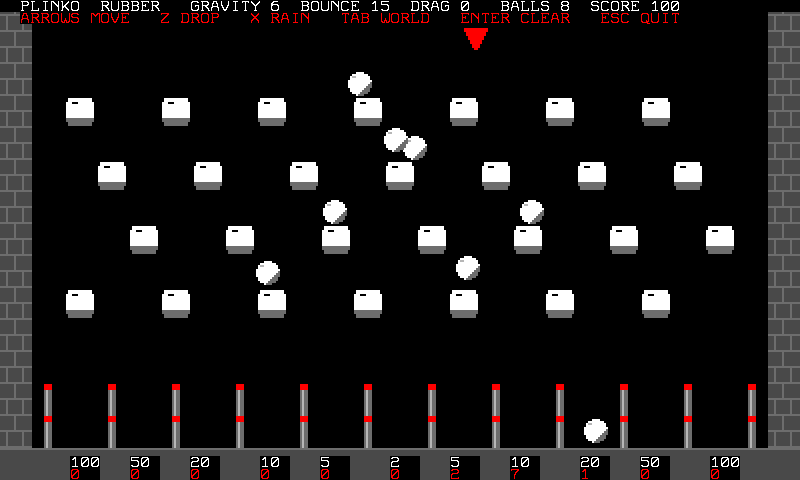
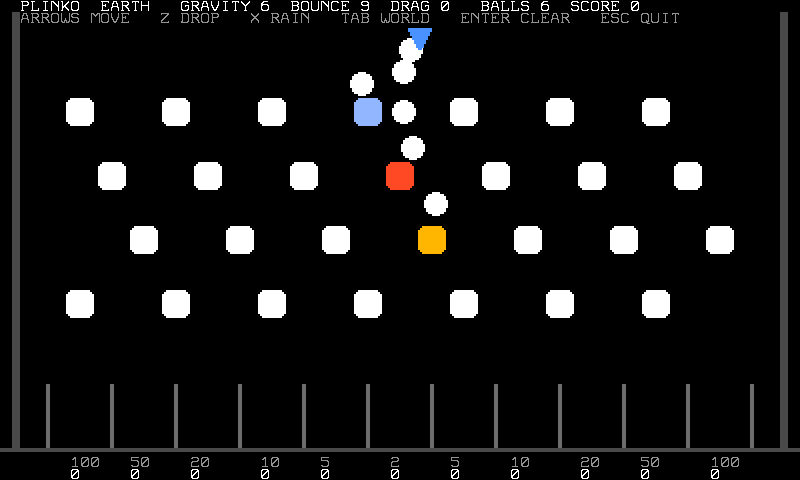
Studio also serves other retro game projects: exports for sprites, maps and music, more languages in the editor; PLINKO is a musical toy

diff --git a/Micro-8-Studio/docs/Studio_README_fr.md b/Micro-8-Studio/docs/Studio_README_fr.md
@@ -2,7 +2,10 @@
 
 Micro-8 Studio est l'atelier de bureau de la console Micro-8 : un éditeur de code qui connaît le langage Lofi, un émulateur
 avec débogueur, et les éditeurs de tout ce qu'un programme charge (sprites, tuiles, cartes, images, sons, musique, écrans
-de texte). Ce manuel comporte trois parties :
+de texte). Il est fait d'abord pour le Micro-8, mais ses outils ne sont pas liés à une seule machine : les éditeurs de sprites, de
+cartes de tuiles et de wave et le tracker écrivent aussi les formats que lisent les autres outils (planches PNG avec atlas JSON, cartes
+Tiled, en-têtes C, WAV, MP3, MIDI) et l'éditeur de code ouvre les fichiers Python, C et C++ : Studio sert donc aussi à d'autres
+projets de jeux rétro. Ce manuel comporte trois parties :
 
 - **Prise en main** (chapitres 1 à 4) : installation, visite de la fenêtre, premier programme, et le langage Lofi en dix minutes.
 - **Tutoriel** (chapitre 5) : un jeu complet, DUNGEON HUNT, construit pas à pas avec tous les éditeurs, testé, puis envoyé sur la carte.
@@ -62,7 +65,9 @@ Studio réunit quatre outils dans une seule fenêtre :
 - un **émulateur** du Micro-8 avec débogueur (points d'arrêt, pas à pas, variables, mémoire, registres matériels) ;
 - des **éditeurs d'assets** équivalents aux outils de la carte SD, plus un tracker et un éditeur de wave : ils lisent et écrivent
   les vrais fichiers octet pour octet, donc ce que vous enregistrez ici s'ouvre sur la machine, et inversement ;
-- un système de **projets** qui garde un programme et ses fichiers ensemble, les vérifie, et les envoie sur une carte ou vers la machine.
+- un système de **projets** qui garde un programme et ses fichiers ensemble, les vérifie, et les envoie sur une carte ou vers la machine ;
+- des **exports pour d'autres machines et moteurs** : les sprites en planche PNG avec son atlas (§9.1), les cartes en texte, CSV, JSON
+  Tiled ou C (§9.2), la musique en WAV, MP3 ou MIDI (§9.6), et un éditeur de code qui colore aussi Python, C, C++, l'assembleur et JSON (§6).
 
 **Installation.** Décompressez la version portable n'importe où (disque, clé USB) et lancez `Micro8Studio.exe`, sans rien installer ;
 l'installeur place les mêmes fichiers dans Program Files ou le dossier de votre choix. Le dossier contient `Examples\` (le
@@ -96,7 +101,8 @@ l'appliquer), et un écran de démarrage à étapes réelles (`--no-splash` pour
 - **L'écran Micro-8** (à droite) : l'affichage émulé de 800 x 480. `F5` y exécute le programme. Cliquez-le une fois pour lui donner le
   clavier : flèches, `Z` et `X` (les boutons A et B), `Enter` (Start), `Tab` (Select) forment la manette.
 - **Panneaux de gauche** (onglets en bas de la colonne) : **Files** (la carte en arbre : un double clic ouvre un fichier dans le bon
-  éditeur, un clic droit crée un dossier), **Outline** (les fonctions et variables du programme), **Search**, **API** (chaque fonction
+  éditeur, un clic droit crée un dossier), **Assets** (tous les fichiers qu'utilise le programme au premier plan, ou le projet ouvert,
+  groupés par genre : §9.9), **Outline** (les fonctions et variables du programme), **Search**, **API** (chaque fonction
   de la machine avec sa signature) et l'**AI Assistant**.
 - **Panneaux du bas :** **Problems** (erreurs et avertissements, un clic y mène), **Output** (messages du programme et de Studio),
   **Variables**, **Watch** et **Breakpoints** (le débogueur), **Memory** (un dump hexadécimal), **Memory Map** (ce que le programme
@@ -1047,6 +1053,13 @@ Vous connaissez maintenant tout le chemin : **des assets avec les éditeurs, un 
   `int`) et estime la taille du bytecode (modèle ajusté sur les `.BIN` de la carte SD, à 5 % près) : affichée
   dans la carte mémoire, avec un avertissement au-delà des 32 Ko du segment de code.
 
+- **Autres langages** : l'éditeur ouvre aussi les `.txt`, `.md`, `.py`, `.c`, `.h`, `.cpp`, `.hpp`, `.cs`, `.js`, `.asm`, `.s`, `.json`
+  et tout autre fichier texte. L'extension décide : un `.SRC` est un programme Lofi, les autres reçoivent les couleurs de leur langage
+  (mots-clés, types, nombres, textes, commentaires de ligne et de bloc), une complétion faite des mots-clés et des mots du fichier,
+  `Ctrl+/` avec la marque de commentaire du langage, et aucune des vérifications de Lofi : rien n'est souligné, la limite de taille ne
+  s'applique pas et `F5` lance le programme du projet, ou rien. Un tel fichier garde son encodage (UTF-8, avec ou sans marque d'ordre
+  d'octets, ou Latin-1) et ses fins de ligne (CR LF ou LF). Le nom du langage s'affiche dans la barre d'état.
+
 - **Octets préservés** : un fichier est enregistré octet pour octet (fins de ligne CR LF ou LF conservées). Les
   codes de contrôle du Micro-8 dans les textes (nouvelle ligne 0x0D, couleurs…) s'affichent comme des « control
   pictures » (␍ ␐…) ; menu Edit > Insert Control Glyph pour en insérer.
@@ -1159,6 +1172,11 @@ tests).
 - Annulation par sprite, éditeur de palette (512 couleurs, palettes A et B).
 - **Boîte de collision AABB** (champs, ajustement automatique), retournements, remplacement / échange de couleurs.
 - **Aperçu d'animation** (plage, images par seconde), import d'une planche PNG, export PNG.
+- **Export pour d'autres outils** (le menu du bouton d'export) : le jeu en **planche PNG transparente avec son atlas JSON**
+  (`NOM.png` + `NOM.json`, le format « frames » de TexturePacker et d'Aseprite que lisent les moteurs 2D et leurs importeurs : la
+  place de chaque sprite, nommé `NOM_00`, `NOM_01`..., et sa boîte de collision), la même planche **découpée en sprites pour Unity**
+  (`NOM.png` + `NOM.png.meta` : mode Multiple, filtre point, sans compression ; copiez les deux fichiers dans le dossier Assets), ou un
+  **en-tête C** (pixels, boîtes, palettes). Un pixel peut être agrandi (1 à 16) dans la planche.
 
 ### 9.2. Tile / map editor
 
@@ -1170,6 +1188,12 @@ tests).
 - Redimensionnement de la carte, cadre d'écran 25×15, grille, zoom.
 - Supprimer une tuile renumérote la carte automatiquement.
 - Import d'une image en tuiles + carte (tuiles identiques fusionnées), export PNG.
+- **Export de la carte pour d'autres outils** (le menu du bouton d'export) : **texte** (`.txt`, un caractère par tuile : `.` pour la
+  tuile 0, puis `1`-`9`, `A`-`Z`, `a`-`z`), **CSV** (`.csv`, les numéros de tuile), **JSON** (`.json`, le format de carte de l'éditeur
+  Tiled, avec les tuiles écrites à côté en planche PNG `NOM_tiles.png` ; le numéro de tuile vaut un de plus que dans Studio, puisque
+  0 veut dire pas de tuile pour Tiled, et les couches qui contiennent quelque chose deviennent des couches cachées de 0 et de 1) ou
+  **en-tête C** (`.h` : carte, couches, tuiles et palette en tableaux). Le bouton d'import relit une carte depuis du texte, du CSV ou
+  du JSON (celui de Studio, ou une carte faite avec Tiled).
 - Formats : `.TLS` brut (+ `.PAL`) ou forme de l'éditeur de tuiles (palette de 48 octets devant) ; `.LVL` avec
   en-tête de 4 octets (largeur, hauteur) ou brut (largeur demandée, comme le niveau 80×24 de la démo TILES).
 - **8 calques** sur la carte, comme le MAPED de la machine (collisions, chemins, déclencheurs : le sens d'un calque
@@ -1263,7 +1287,7 @@ machine réelle.
 
 **Effets Studio** (arpège, retrigger, delay, cut, probabilité, LFO YM, swing, glide, longueurs de piste) :
 uniquement pour l'aperçu dans Studio, désactivables, la lecture sur machine reste celle du tracker embarqué. Export
-MIDI, WAV, pistes séparées (stems). `.EXT.json` : fichier annexe pour les longueurs de pattern et les effets, pas lu
+MIDI, WAV, MP3, pistes séparées (stems) ; le MP3, de 128 à 320 kbit/s, demande un `ffmpeg.exe` à côté de Studio ou dans le PATH. `.EXT.json` : fichier annexe pour les longueurs de pattern et les effets, pas lu
 par la machine.
 
 Testé octet pour octet contre les trackers embarqués (les deux versions et le lecteur) : un projet fait ici s'ouvre inchangé sur la machine réelle et inversement.
@@ -1377,6 +1401,12 @@ le programme principal, les fichiers du projet, les onglets ouverts, l'onglet co
   le dossier du projet y est ajouté (ou **Add Current File to Project**). Un nouveau fichier est proposé par défaut
   dans le dossier du projet. **Close Project** ferme seulement les onglets du projet.
 - **F5** avec un éditeur d'asset au premier plan lance le programme du projet.
+- **Panneau Assets** (colonne de gauche) : tous les fichiers du projet, et tous ceux que nomment ses sources, groupés par genre (code,
+  sprites, tuiles et cartes, images, palettes, sons, musique, données). Un double clic ouvre un fichier dans l'éditeur fait pour lui.
+  Sans projet, le panneau montre les fichiers du programme au premier plan : les noms écrits dans sa source (`"HERO.SPR"`,
+  `songLoad("TUNE")`, `#include "game.h"`), leurs compagnons (les palettes d'un jeu de sprites, les couches et les tuiles d'une carte)
+  et les fichiers qui portent le nom du programme. Un fichier que la source nomme et qui n'est pas sur le disque est listé en rouge,
+  comme manquant.
 - **Check Project** : ce que la vraie machine refuserait (noms non 8.3 de la FAT32, erreurs de compilation, code
   au-delà du segment de 32 Ko, fichiers du projet manquants) et les fichiers que le programme nomme dans ses textes
   mais qui ne sont pas dans le dossier (simple note : le programme peut les écrire lui-même).

diff --git a/Micro-8-Studio/docs/Studio_README_en.md b/Micro-8-Studio/docs/Studio_README_en.md
@@ -2,7 +2,9 @@
 
 Micro-8 Studio is the desktop workshop for the Micro-8 console: a code editor that knows the Lofi language, an emulator
 with a debugger, and the editors for everything a program loads (sprites, tiles, maps, pictures, sounds, music, text
-screens). This manual has three parts:
+screens). It is made for the Micro-8 first, but its tools are not tied to one machine: the sprite, tile map and wave editors and
+the tracker also write the formats other tools read (PNG sheets with a JSON atlas, Tiled maps, C headers, WAV, MP3, MIDI) and the
+code editor opens Python, C and C++ files, so Studio serves other retro game projects too. This manual has three parts:
 
 - **Getting started** (chapters 1 to 4): install, a tour of the window, your first program, and the Lofi language in ten minutes.
 - **Tutorial** (chapter 5): a complete game, DUNGEON HUNT, built step by step with every editor, tested, and sent to the card.
@@ -61,7 +63,9 @@ Studio is made of four tools that share one window:
 - an **emulator** of the Micro-8 with a debugger (breakpoints, stepping, variables, memory, hardware registers);
 - **asset editors** equivalent to the SD card's own tools, plus a tracker and a wave editor: they read and write the real
   files byte for byte, so what you save here opens on the machine and back;
-- a **project** system that keeps a program and its files together, checks them, and sends them to a card or to the machine.
+- a **project** system that keeps a program and its files together, checks them, and sends them to a card or to the machine;
+- **exports for other machines and engines**: sprites as a PNG sheet with its atlas (§9.1), maps as text, CSV, Tiled JSON or C (§9.2),
+  music as WAV, MP3 or MIDI (§9.6), and a code editor that also colours Python, C, C++, assembly and JSON (§6).
 
 **Install.** Unzip the portable version anywhere (a drive, a USB stick) and run `Micro8Studio.exe`, nothing to install; the
 installer places the same files under Program Files or a folder of your choice. The folder holds `Examples\` (the
@@ -95,7 +99,8 @@ restart to apply), and a splash screen with real progress steps (`--no-splash` t
 - **The Micro-8 screen** (right): the emulated 800 x 480 display. `F5` runs the program in it. Click it once to give it
   the keyboard: arrows, `Z` and `X` (the A and B buttons), `Enter` (Start), `Tab` (Select) are the game pad.
 - **Left panels** (tabs at the bottom of the column): **Files** (the card as a tree: double-click opens a file in the
-  right editor, right-click makes a folder), **Outline** (the program's functions and variables), **Search**, **API**
+  right editor, right-click makes a folder), **Assets** (every file the program in front, or the open project, uses, grouped by
+  kind: §9.9), **Outline** (the program's functions and variables), **Search**, **API**
   (every function of the machine with its signature) and the **AI Assistant**.
 - **Bottom panels:** **Problems** (errors and warnings, click to jump), **Output** (messages of the program and of
   Studio), **Variables**, **Watch** and **Breakpoints** (the debugger), **Memory** (a hex dump), **Memory Map** (how much of the code,
@@ -1053,6 +1058,13 @@ You now know the whole path: **assets with the editors, a program that loads the
   model fitted on the SD card's own `.BIN` files, within 5%): shown in the memory map, with a warning past the
   32 KB code segment.
 
+- **Other languages**: the editor also opens `.txt`, `.md`, `.py`, `.c`, `.h`, `.cpp`, `.hpp`, `.cs`, `.js`, `.asm`, `.s`, `.json`
+  and any other text file. The extension decides: a `.SRC` is a Lofi program, the others get the colours of their language
+  (keywords, types, numbers, strings, line and block comments), a completion made of the keywords and of the words of the file,
+  `Ctrl+/` with the comment mark of the language, and none of Lofi's checks: nothing is underlined, the size limit does not
+  apply and `F5` runs the project's program, or nothing. Such a file keeps its encoding (UTF-8, with or without a byte order
+  mark, or Latin-1) and its line ends (CR LF or LF). The name of the language shows in the status bar.
+
 - **Bytes preserved**: a file is saved byte for byte (CR LF or LF line endings kept as they were). The Micro-8's
   own control codes inside text literals (newline 0x0D, colors…) show as control pictures (␍ ␐…); Edit > Insert
   Control Glyph inserts one.
@@ -1161,6 +1173,11 @@ the real SD-card files **byte for byte**.
 - Per-sprite undo, a palette editor (512 colors, palettes A and B).
 - An **AABB collision box** (fields, auto-fit), flips, color replace/swap.
 - An **animation preview** (range, frames per second), importing a PNG sheet, PNG export.
+- **Export for other tools** (the menu of the export button): the set as a **PNG sheet with transparency and its JSON atlas**
+  (`NAME.png` + `NAME.json`, the "frames" format of TexturePacker and Aseprite that the 2D engines and their importers read: the
+  place of every sprite, named `NAME_00`, `NAME_01`..., and its collision box), the same sheet **cut into sprites for Unity**
+  (`NAME.png` + `NAME.png.meta`: sprite mode Multiple, point filter, no compression; copy both files into the Assets folder), or a
+  **C header** (pixels, boxes, palettes). A pixel can be enlarged (1 to 16) in the sheet.
 
 ### 9.2. Tile / map editor
 
@@ -1172,6 +1189,11 @@ the real SD-card files **byte for byte**.
 - Map resizing, a 25×15 screen frame guide, grid, zoom.
 - Deleting a tile renumbers the map automatically.
 - Importing an image into tiles + a map (identical tiles merged), PNG export.
+- **Export the map for other tools** (the menu of the export button): **text** (`.txt`, one character a tile: `.` for tile 0, then
+  `1`-`9`, `A`-`Z`, `a`-`z`), **CSV** (`.csv`, the tile numbers), **JSON** (`.json`, the map format of the Tiled editor, with the tiles
+  written beside it as a PNG sheet `NAME_tiles.png`; the tile number is one more than in Studio, since 0 means no tile for Tiled,
+  and the layers that hold something are hidden layers of 0 and 1) or a **C header** (`.h`: map, layers, tiles and palette as
+  arrays). The import button reads a map back from text, CSV or JSON (Studio's own, or a map made with Tiled).
 - Formats: raw `.TLS` (+ `.PAL`) or the tile editor's own shape (a 48-byte palette in front); `.LVL` with a
   4-byte header (width, height) or raw (width is asked for, as with the TILES demo's 80×24 level).
 - **8 layers** over the map, like the machine's own MAPED (collision, paths, triggers: what a layer means is up to your
@@ -1257,7 +1279,8 @@ references; format described in the Tracker documentation): the Micro-8's built-
 they only *write notes*, so they are 100% compatible with the real machine.
 
 **Studio FX** (arp, retrigger, delay, cut, probability, YM LFO, swing, glide, track lengths): preview-only in
-Studio, can be turned off, playback on the machine stays the on-device tracker's own. MIDI, WAV and stems export.
+Studio, can be turned off, playback on the machine stays the on-device tracker's own. MIDI, WAV, MP3 and stems export (MP3 at 128 to 320 kbit/s; it needs an
+`ffmpeg.exe` beside Studio or on the PATH).
 `.EXT.json`: a sidecar file for pattern lengths and FX, not read by the machine.
 
 Tested byte-exact against the on-device trackers (the two versions of the on-device tracker, and the player): a
@@ -1370,6 +1393,11 @@ main program, the project's files, the open tabs, the current tab and the X1 set
   folder joins it (or **Add Current File to Project**). A new file is offered in the project folder by default.
   **Close Project** closes only the project's tabs.
 - **F5** with an asset editor in front runs the project's program.
+- **Assets panel** (left column): every file of the project, and every file its sources name, grouped by kind (code, sprites,
+  tiles and maps, pictures, palettes, sounds, music, data). A double click opens a file in the editor made for it. Without a
+  project the panel shows the files of the program in front: the names written in its source (`"HERO.SPR"`,
+  `songLoad("TUNE")`, `#include "game.h"`), their companions (the palettes of a sprite set, the layers and tiles of a map) and
+  the files that bear the program's name. A file the source names that is not on the disk is listed in red as missing.
 - **Check Project**: what the real machine would refuse (names that are not 8.3 for its FAT32, compile errors,
   code over the 32 KB segment, missing project files) and the files the program names in its strings that are
   not in the folder (only a note: the program may write them itself).

diff --git a/Demos/README.md b/Demos/README.md
@@ -18,14 +18,14 @@ The few comments that follow say only what the code cannot.
 | <img src="img/cubes3.png" alt="Cubes" width="260"> | `CUBES3.SRC` | **Three nested wireframe cubes**, each turning on three axes at its own speeds, the edges at the back drawn dimmer. Integers only: the three columns of the rotation matrix times half the side give three vectors A, B, C; the 8 corners are +-A +-B +-C (4 additions, 4 opposites); the 12 edges are drawn from 4 corners, 3 edges each; the farthest corner gives the 3 hidden edges. 60 frames a second. |
 | <img src="img/stars3d.png" alt="Stars 3D" width="260"> | `STARS3D.SRC` | **Stars 3D**: 96 stars come from the horizon and rush past the viewer (distance on screen = distance from the axis * 255 / depth), dim blue far away, white and bigger when near, the nearest with a streak behind them. The whole field rolls, one way then the other. |
 | <img src="img/lorenz.png" alt="Lorenz" width="260"> | `LORENZ.SRC` | **Lorenz attractor**: two points follow the three Lorenz equations, computed live, from starts a tenth apart. They fly together for a few seconds, then part for good (the butterfly effect). Each leaves a fading trail of 150 positions, gold and blue, and the view turns around the vertical axis. |
-| <img src="img/plinko.png" alt="Plinko" width="260"> | `PLINKO.SRC`, `PLINKO.SPR`, `.PLA`, `.TLS`, `.PAL`, `.LVL`, `.LAY` | **Plinko**: balls fall through four rows of pegs into eleven bins that score from 2 in the middle to 100 at the edges, in four worlds (earth, rubber, moon, sand) that Tab swaps by changing three numbers: gravity, bounce and drag. Arrows move the dropper, Z drops a ball, X rains balls, Enter clears the board. A ball that stands on a peg is pushed off it, and a bounce rings. It is built on the physics blocks of the Micro-8 library (`layer`, `phys`, `pad`, `hud`, `sfx`), whose code is in the program: the pegs, walls and dividers are layer 0 of `PLINKO.LAY`, a bounce is a note on FM voice 5. At most 8 balls at once, to stay at 30 frames a second. Not a demoscene effect but a toy for trying the numbers. |
+| <img src="img/plinko.png" alt="Plinko" width="260"> | `PLINKO.SRC`, `PLINKO.SPR`, `.PLA`, `.TLS`, `.PAL`, `.LVL`, `.LAY`, and five `.INS` instruments | **Plinko**: a musical toy in flat, plain graphics. Balls fall on four rows of white pegs into eleven bins. Every peg plays a note of the scale of the world and lights up in the colour of its row (blue, red, yellow, green), brighter and louder the harder the hit, then dims by itself; the pegs of a row share an FM voice (bell, marimba, pick, bell), a ball in a bin plays a bass note, and the sound moves left and right with the column. Four worlds (earth, rubber, moon, sand), swapped by Tab, change gravity, bounce, drag and the scale (major pentatonic, lydian, whole tone, minor pentatonic), and Tab plays the new scale. Arrows move the dropper, Z drops a ball, X rains balls, Enter clears the board. It is built on the physics blocks of the Micro-8 library (`layer`, `phys`, `pad`, `hud`), whose code is in the program: the pegs, walls and dividers are layer 0 of `PLINKO.LAY`, a lit peg is another tile of `PLINKO.TLS` (12 of them: 4 colours, 3 brightnesses). At most 8 balls at once, to stay at 30 frames a second. Not a demoscene effect but a toy for trying the numbers and for playing. |
 | <img src="img/blkhole.png" alt="Black Hole" width="260"> | `BLKHOLE.SRC` | **Black Hole**: the shadow and its photon ring, the accretion disk seen almost edge on (flat in front of the shadow, its back half bent into an arch over it), matter turning faster near the hole (Kepler), the side coming towards the viewer brighter, and the stars behind pushed aside by the gravitational lens. The disk is 1100 dots drawn once; the moving streaks and stars are drawn over it with the XOR mask of `line()` and `plot()`, in two pages (double buffer). |
 
 ## Running them
 
 - **In Micro-8 Studio**: open a `.SRC` and press F5. ESC ends the demo.
 - **On the machine**: copy the folder to the SD card, then `compile NAME.SRC` and `run NAME.BIN`.
-- Keep the resource files next to the program: `SINUS.SPR` with `SINUS.SRC`, and the seven `PLINKO.*` files together.
+- Keep the resource files next to the program: `SINUS.SPR` with `SINUS.SRC`, and the `PLINKO.*` files and the five `.INS` instruments together.
 
 ## State
 

diff --git a/Micro-8-Studio/README.md b/Micro-8-Studio/README.md
@@ -7,6 +7,18 @@ analyzer for the Lofi language, debugger (breakpoints, step), hardware-accurate 
 digital synth, tiles, sprites, raster, mouse, gamepad, MIDI), and dedicated tools (music tracker, sprite / tile /
 screen / sound / image editors).
 
+Studio is made for the Micro-8 first, and it also serves other retro game projects, so that one program replaces
+several tools:
+
+- the **sprite editor** exports a PNG sheet with transparency and its JSON atlas (the TexturePacker and Aseprite
+  format), the same sheet cut into sprites for Unity (`.png` + `.png.meta`), or a C header;
+- the **tile map editor** exports the map as text, CSV, JSON for the Tiled editor (with the tiles as a PNG sheet) or a
+  C header, and reads text, CSV and Tiled maps back;
+- the **tracker** exports a song as WAV, MP3, WAV stems (one file a track) or MIDI (the MP3 needs an `ffmpeg.exe`
+  beside Studio or on the PATH);
+- the **code editor** also opens Python, C, C++, assembly, JSON and text files, with their own colours;
+- the **Assets panel** lists every file a program or a project uses and opens each one in its editor.
+
 This repository distributes the **compiled** application.
 
 ## Download
@@ -29,8 +41,8 @@ No Python installation or other dependency is needed: everything is included.
 ### SHA-256 checksums
 
 ```
-52c3dc6a77dfa98646c66cdb74f84f2601fd3677566d5dc106697bcda028cbd0  Micro8Studio-1.3.0-win64-portable.zip
-7876e8cd426af294bfe9d6428899061d7d4df88d894c80fcb2f975a930dbebb3  Micro8Studio-1.3.0-Setup.exe
+6ea0855ee42fe9cc8676133d1c7820d854469d6c75aabaf16dd983b8f66f7919  Micro8Studio-1.3.0-win64-portable.zip
+85c6d78be3ac8cd8ecb6f1bde8492b15c979ab2f6d8865d4f03e6bf40e053328  Micro8Studio-1.3.0-Setup.exe
 ```
 
 ## Documentation

diff --git a/README.md b/README.md
@@ -28,10 +28,10 @@ Projects for the **Micro-8**, an 8-bit retro computer programmed in its own C-li
 |---|---|
 | [`SidRush/`](SidRush) | **Sid Rush**, a C64-style music demo and cracktro, the first demo written for the Micro-8 |
 | [`Tracker/`](Tracker) | **Micro-8 Tracker 0.1**, an 8-track pattern tracker, and a standalone player |
-| [`Demos/`](Demos) | **Demos**: dots tunnel, copper bars, sinus scroller, stars field and 3D stars, rotating cubes, Lorenz attractor, black hole |
+| [`Demos/`](Demos) | **Demos**: dots tunnel, copper bars, sinus scroller, stars field and 3D stars, rotating cubes, Lorenz attractor, black hole, and Plinko, a musical physics toy |
 | [`DungeonHunt/`](DungeonHunt) | **DUNGEON HUNT**, the complete game built step by step in the Micro-8 Studio manual: sprites, tiles with layers, title screen, music and sounds |
 | [`Gravity/`](Gravity) | **GRAVITY**, the platform game of the second tutorial: twelve levels in five worlds with their own gravity, lives, a high score, bricks and secrets, built on the physics and entity blocks of the Micro-8 library |
-| [`Micro-8-Studio/`](Micro-8-Studio) | **Micro-8 Studio**, the development environment for Windows: editor, debugger, emulator and tools ([download](https://github.com/bsm3d/Micro-8/releases/latest)) |
+| [`Micro-8-Studio/`](Micro-8-Studio) | **Micro-8 Studio**, the development environment for Windows: editor, debugger, emulator and tools. Made for the Micro-8 first, it also serves other retro game projects: sprites export as PNG sheets with a JSON atlas (or cut for Unity), maps as text, CSV, Tiled JSON or C, music as WAV, MP3 or MIDI ([download](https://github.com/bsm3d/Micro-8/releases/latest)) |
 
 ## Notes
 
